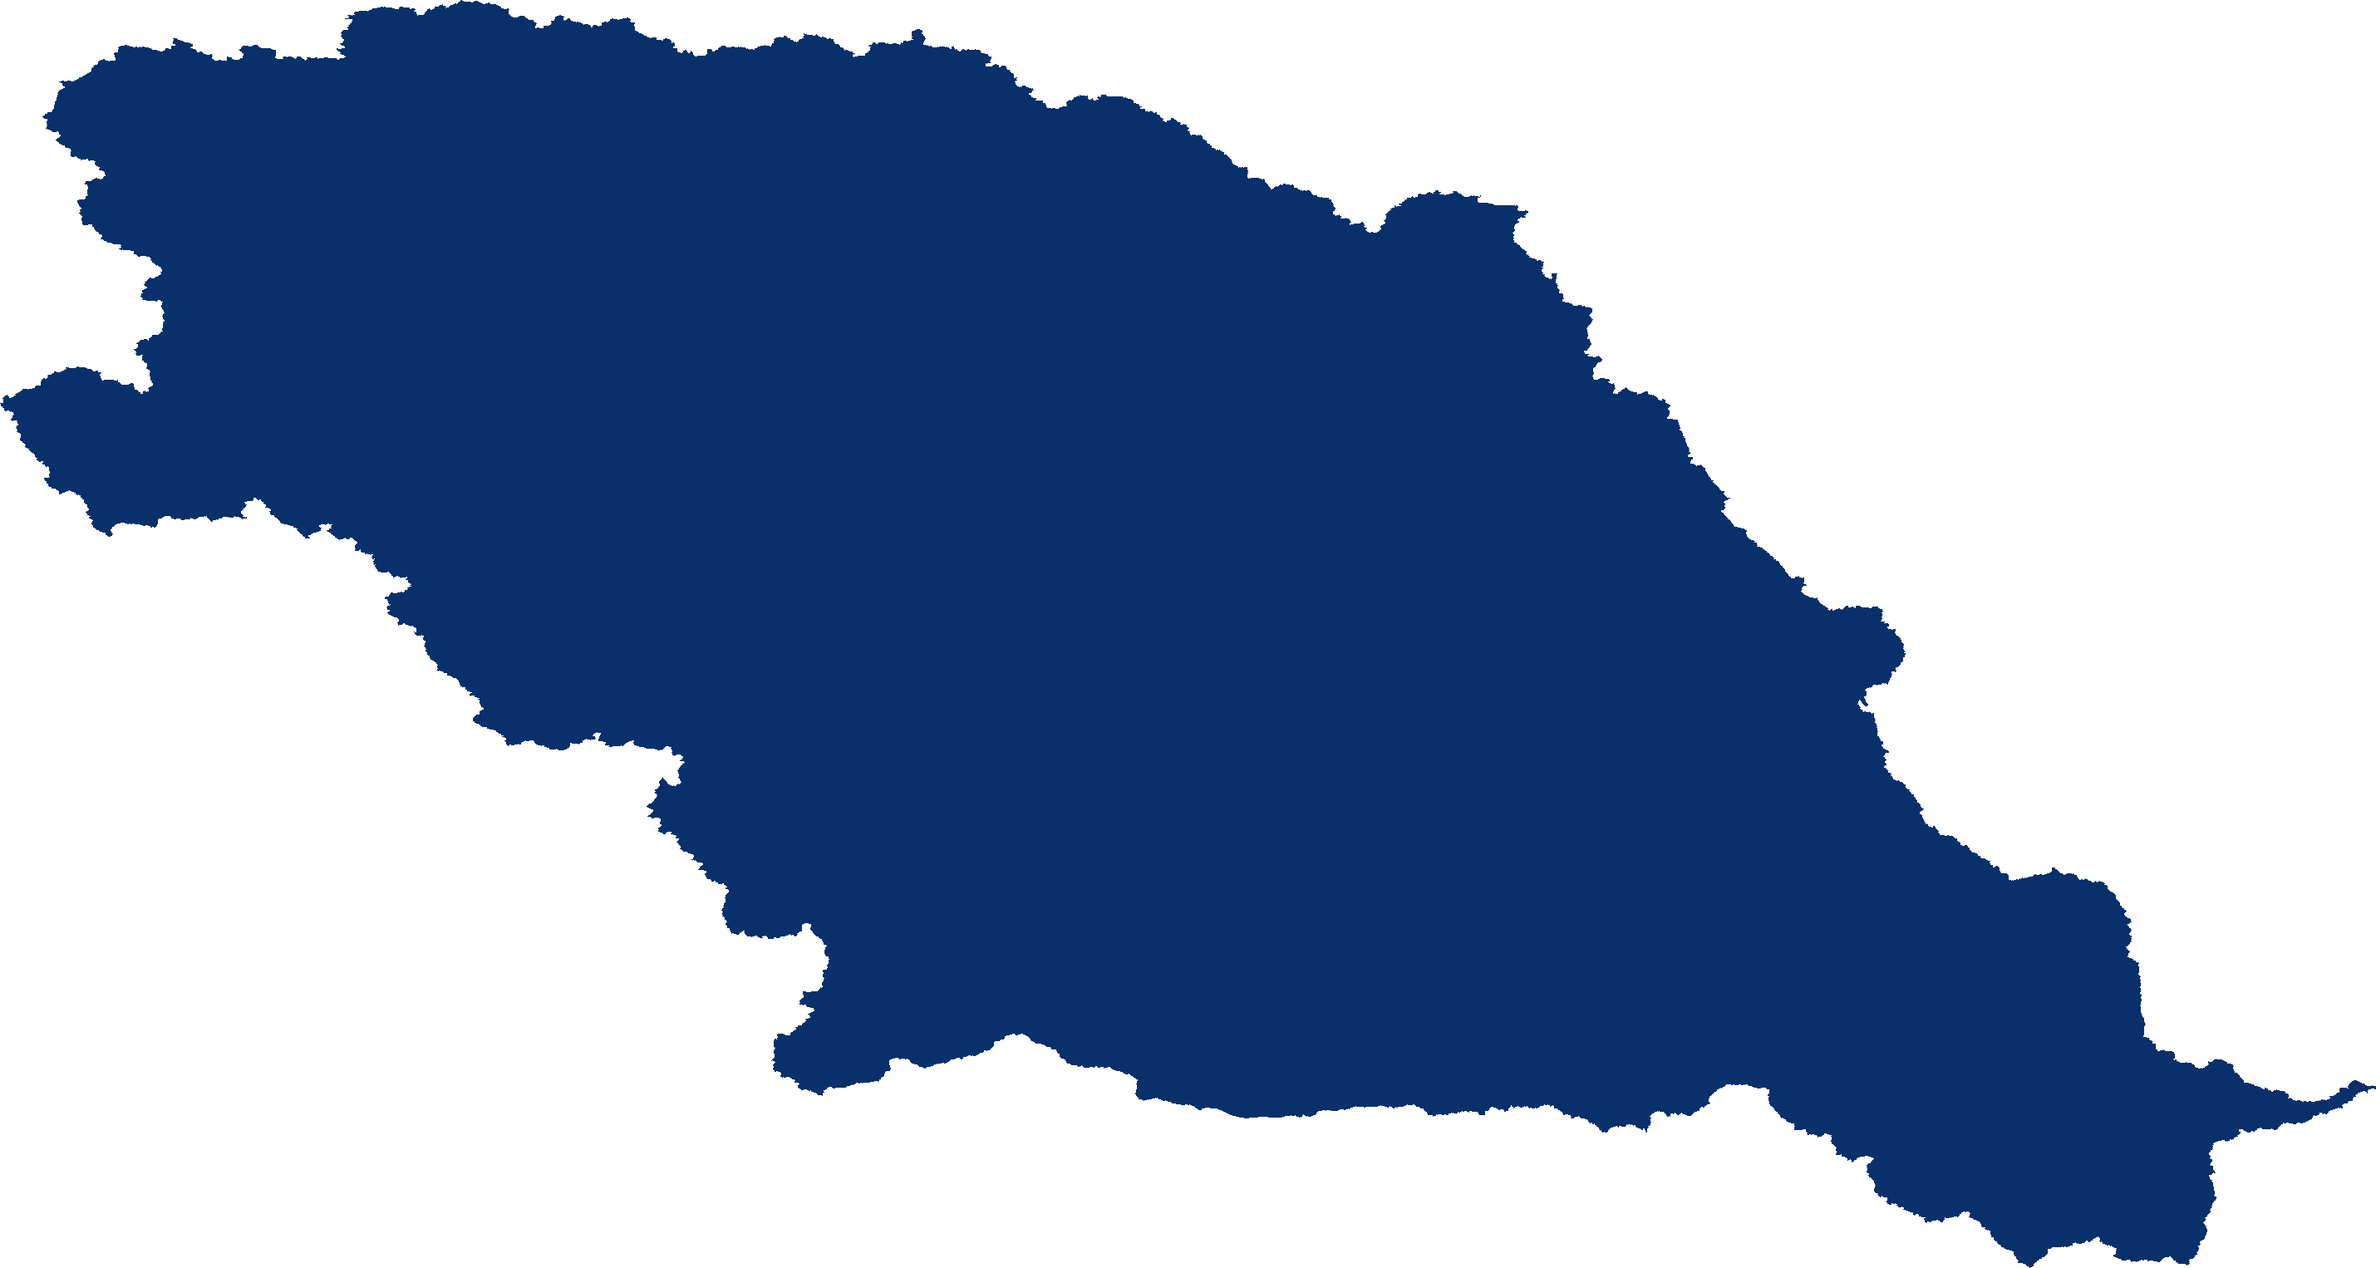
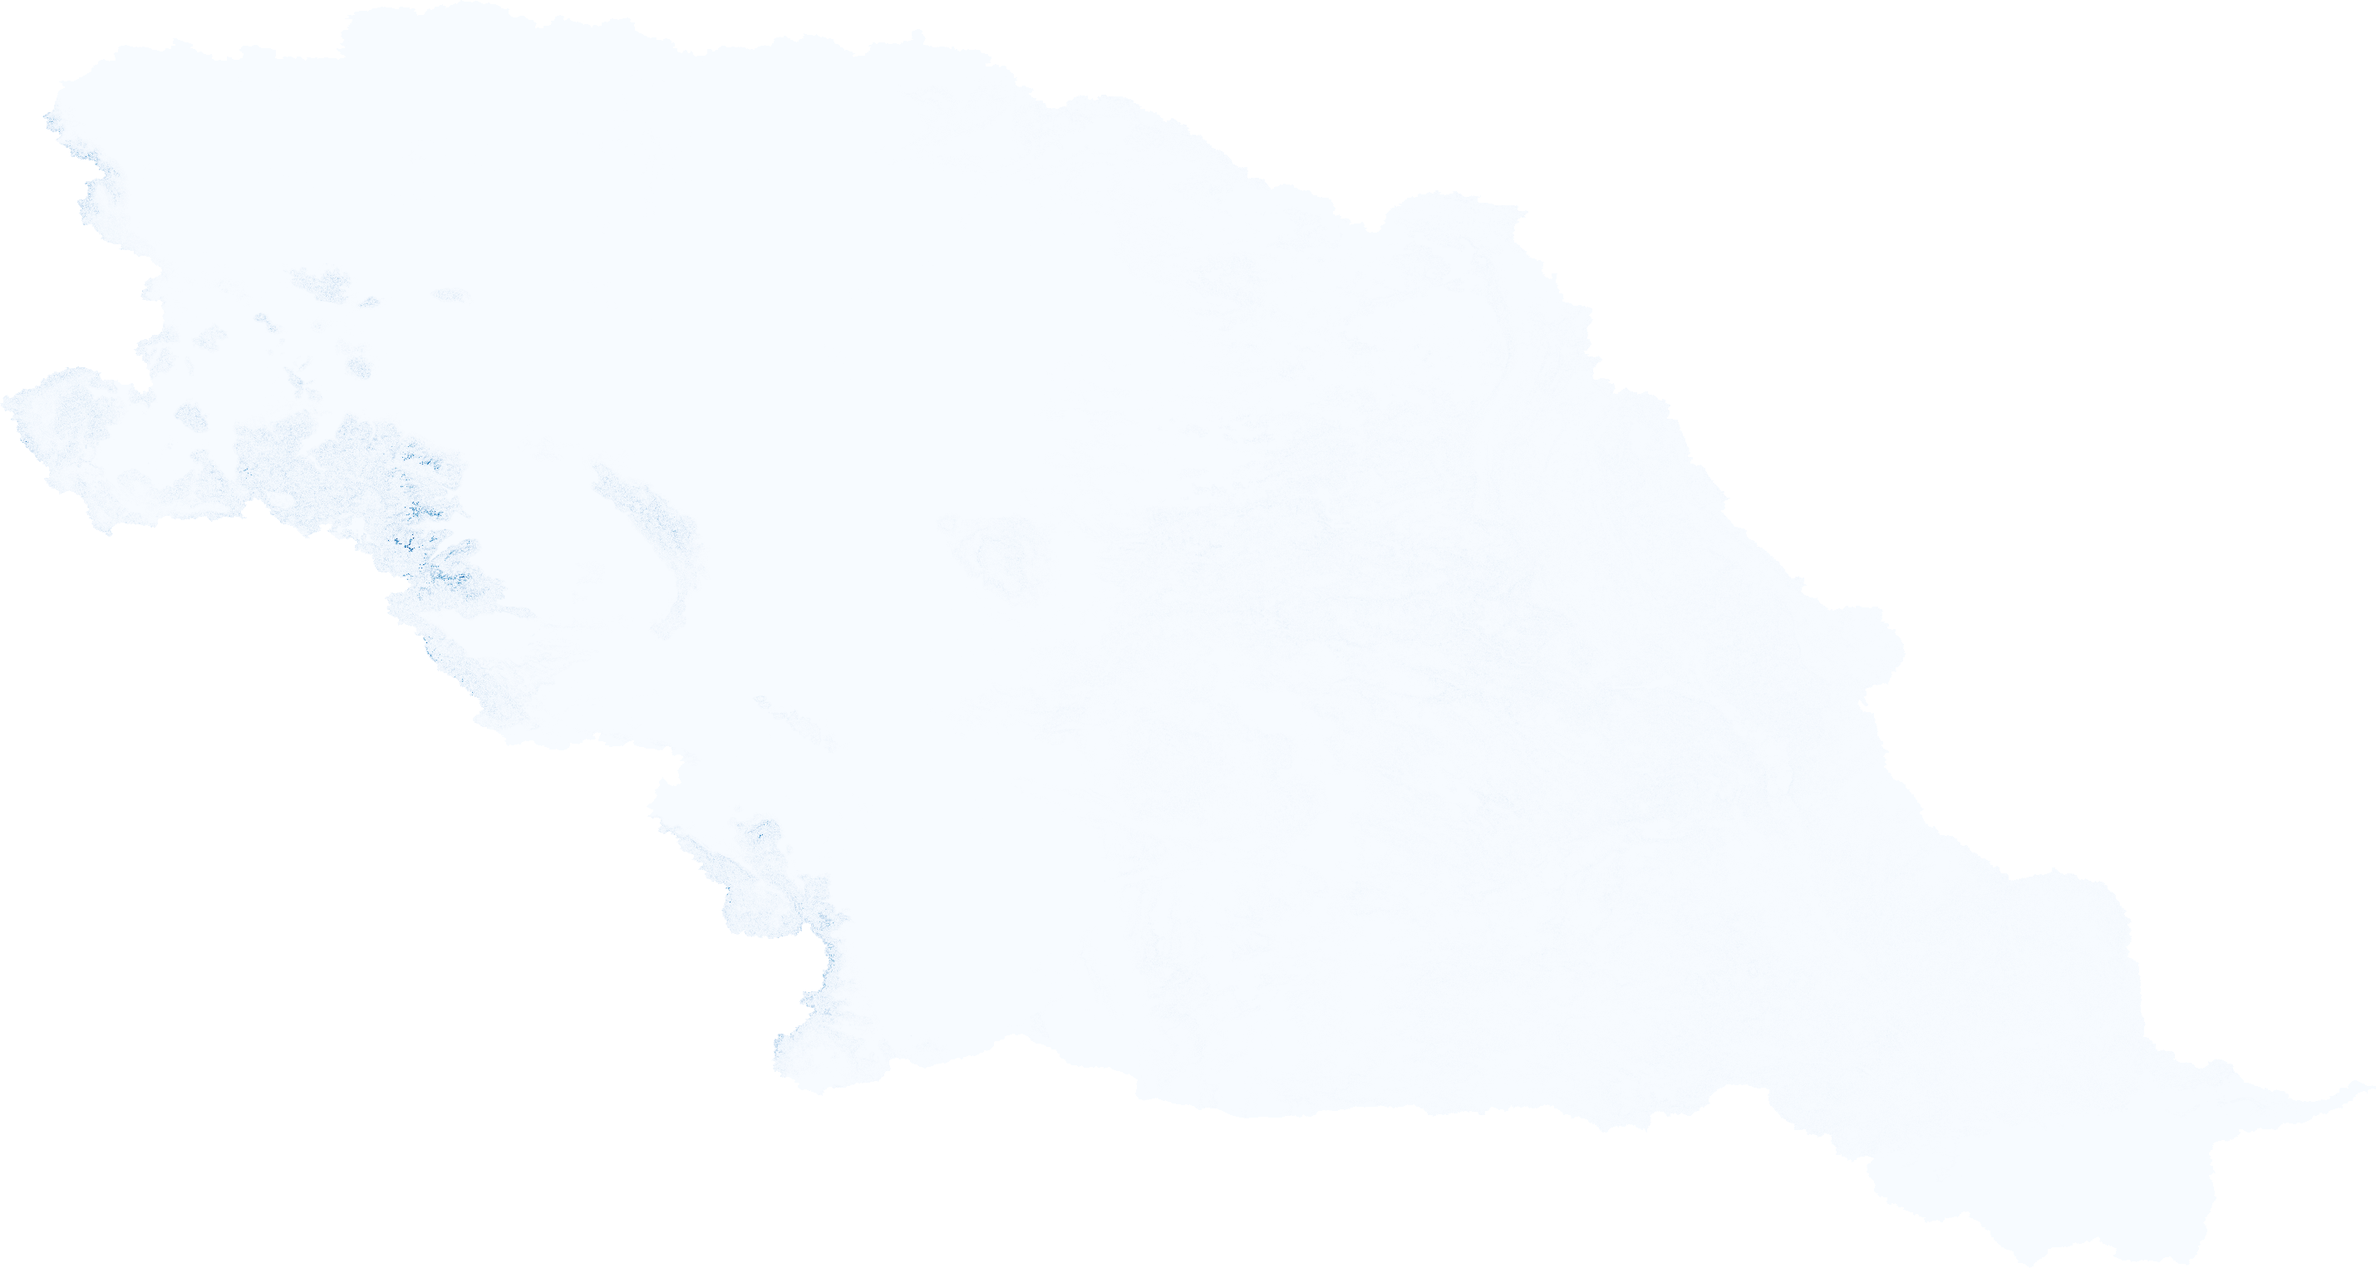
fixing snow layer cover

diff --git a/src/layer_resolution/main.py b/src/layer_resolution/main.py
@@ -93,6 +93,7 @@ class LayerPublisher(WallclockTimeIntervalPublisher):
 
     def download_snodas_data(self, start_date, end_date, raw_path):
         """Download SNODAS data for given date range"""
+        logger.info("Downloading SNODAS data.")
         dates = pd.date_range(start_date, end_date)
         snodas_dir = os.path.join(raw_path, "SNODAS")
         
@@ -107,7 +108,8 @@ class LayerPublisher(WallclockTimeIntervalPublisher):
                 continue
                 
             self.process_snodas_date(date, file_label, snodas_dir)
-        
+        logger.info("Downloading SNODAS data successfully completed.")
+
         return snodas_dir, dates
 
     def process_snodas_date(self, date, file_label, snodas_dir):
@@ -170,7 +172,7 @@ class LayerPublisher(WallclockTimeIntervalPublisher):
 
     def merge_snodas_files(self, snodas_dir, dates):
         """Merge individual SNODAS files into one NetCDF"""
-        print("Writing snodas-merged.nc")
+        logger.info("Merging NetCDF files.")
         ds = xr.combine_by_coords(
             [rxr.open_rasterio(
                 os.path.join(snodas_dir, 
@@ -180,15 +182,21 @@ class LayerPublisher(WallclockTimeIntervalPublisher):
             combine_attrs="drop_conflicts"
         )
         ds.to_netcdf(os.path.join(snodas_dir, "snodas-merged.nc"))
+        logger.info(f"Merging NetCDF files successfully completed.")
         return ds
 
     def get_missouri_basin(self, path_shp):
         """Get Missouri Basin geometry"""
+
+        logger.info("Downloading Missouri Basin geometry.")
         mo_basin = gpd.read_file(path_shp + "WBD_10_HU2_Shape/Shape/WBDHU2.shp")
+        logger.info("Downloading Missouri Basin geometry successfully completed.")
+
         return gpd.GeoSeries(Polygon(mo_basin.iloc[0].geometry.exterior), crs="EPSG:4326")
 
     def process_resolution(self, ds, mo_basin):
         """Process resolution analysis"""
+        logger.info("Processing resolution layer.")
         ds_clipped = ds.rio.clip(mo_basin.geometry, "EPSG:4326")
         
         # Print the dimensions of the dataset for debugging
@@ -211,11 +219,12 @@ class LayerPublisher(WallclockTimeIntervalPublisher):
         w = ds_clipped.rio.width * factor
         ds_5km = ds_clipped.rio.reproject(ds_clipped.rio.crs, shape=(int(h), int(w)), resampling=Resampling.bilinear)
         ds_1km = ds_5km.rio.reproject_match(ds_clipped, 1)
-        
+        logger.info("Processing resolution layer completed successfully.")
         return ds_clipped, abs(ds_1km - ds_clipped)
 
     def compute_monthly_resolution(self, ds_abs, mo_basin):
         """Compute monthly resolution statistics"""
+        logger.info("Computing monthly resolution.")
         resolution_mo = ds_abs.convert_calendar(calendar='standard')
         temp = resolution_mo.groupby(resolution_mo.time.dt.month).mean()
         
@@ -225,8 +234,97 @@ class LayerPublisher(WallclockTimeIntervalPublisher):
         temp_resampled = (temp.sel(month=resolution_mo.time.dt.month)
                         .rio.write_crs("EPSG:4326")
                         .rio.clip(mo_basin.geometry, "EPSG:4326"))
+        logger.info("Computing monthly resolution successfully completed.")
         return temp_resampled
+    
+    def open_polygons(self, geojson_path):
+        geojson = gpd.read_file(geojson_path)
+        polygons = geojson.geometry
+        print('Polygons loaded.')
+        return polygons
 
+    def downsample_array(self, array, downsample_factor):
+        """
+        Downsamples the given array by the specified factor.
+
+        Args:
+            array (np.ndarray): The array to downsample.
+            downsample_factor (int): The factor by which to downsample the array.
+
+        Returns:
+            np.ndarray: The downsampled array.
+        """
+        return array[::downsample_factor, ::downsample_factor]
+
+    def get_extents(self, dataset, variable):
+        # Extract the GeoTransform attribute
+        geo_transform = dataset['spatial_ref'].GeoTransform.split()
+        # Convert GeoTransform values to float
+        geo_transform = [float(value) for value in geo_transform]
+        # Calculate the extents (four corners)
+        min_x = geo_transform[0]
+        pixel_width = geo_transform[1]
+        max_y = geo_transform[3]
+        pixel_height = geo_transform[5]
+        # Get the actual dimensions of the raster layer
+        n_rows, n_cols = dataset[variable][0, :, :].shape
+        # Calculate the coordinates of the four corners
+        top_left = (min_x, max_y)
+        top_right = (min_x + n_cols * pixel_width, max_y)
+        bottom_left = (min_x, max_y + n_rows * pixel_height)
+        bottom_right = (min_x + n_cols * pixel_width, max_y + n_rows * pixel_height)
+        return top_left, top_right, bottom_left, bottom_right
+    
+    def encode(self, dataset, variable, output_path, time_step, scale, geojson_path, downsample_factor=1):
+
+        logger.info('Encoding snow layer.')
+        polygons = self.open_polygons(geojson_path=geojson_path)
+        
+        raster_layer = dataset[variable]
+
+        raster_layer = raster_layer.rio.write_crs("EPSG:4326")
+        clipped_layer = raster_layer.rio.clip(polygons, all_touched=True)
+        print(clipped_layer)
+        if scale == 'time':
+            raster_layer = clipped_layer.sel(time=time_step)
+        elif scale == 'week':
+            raster_layer = clipped_layer.isel(week=time_step).values
+        elif scale == 'month':
+            raster_layer = clipped_layer.isel(month=time_step).values
+        
+        raster_layer = self.downsample_array(raster_layer, downsample_factor=downsample_factor)
+
+        raster_layer_min = np.nanmin(raster_layer)
+        raster_layer_max = np.nanmax(raster_layer)
+
+        na_mask = np.isnan(raster_layer)
+
+        if raster_layer_max > raster_layer_min:
+            normalized_layer = (raster_layer - raster_layer_min) / (raster_layer_max - raster_layer_min)
+        else:
+            normalized_layer = np.zeros_like(raster_layer)
+
+        colormap = plt.get_cmap('Blues_r')
+        rgba_image = colormap(normalized_layer)
+
+        rgba_image[..., 3] = np.where(na_mask, 0, 1)
+
+        rgba_image = (rgba_image * 255).astype(np.uint8)
+
+        image = Image.fromarray(rgba_image, 'RGBA')
+        image.save(output_path)
+
+        top_left, top_right, bottom_left, bottom_right = self.get_extents(dataset, variable=variable)
+
+        buffered = io.BytesIO()
+        image.save(buffered, format="PNG")
+
+        raster_layer_encoded = base64.b64encode(buffered.getvalue()).decode('utf-8')
+
+        logger.info('Encoding snow layer successfully completed.')
+
+        return raster_layer_encoded, top_left, top_right, bottom_left, bottom_right
+    
     def publish_message(self):
 
         current_time = self.constellation.get_time()
@@ -276,9 +374,9 @@ class LayerPublisher(WallclockTimeIntervalPublisher):
         
         self.app.send_message(
             self.app.app_name,
-            "resolution_layer",
+            "layer",
             ResolutionLayer(
-                snow_layer=resolution_layer,
+                resolution_layer=resolution_layer,
                 top_left=top_left,
                 top_right=top_right,
                 bottom_left=bottom_left,
@@ -296,7 +394,7 @@ def main():
     VIRTUAL_HOST = credentials["VIRTUAL_HOST"]
     IS_TLS = credentials["IS_TLS"].lower() == 'true'
     PREFIX = "sos"
-    NAME = "layer"#"constellation"
+    NAME = "resolution"
 
     config = ConnectionConfig(
         USERNAME,
@@ -312,7 +410,7 @@ def main():
 
     app = ManagedApplication(NAME)
 
-    constellation = Constellation("layer") #"constellation")
+    constellation = Constellation("resolution")
     app.simulator.add_entity(constellation)
     app.simulator.add_observer(ShutDownObserver(app))
 

diff --git a/src/layer_snow_cover/main.py b/src/layer_snow_cover/main.py
@@ -59,10 +59,6 @@ class LayerPublisher(WallclockTimeIntervalPublisher):
 
         if self.time_status_init is None:
             self.time_status_init = self.constellation.ts.now().utc_datetime()
-            print(f'TIME STATUS INIT: {self.time_status_init}')
-        else:
-            self.time_status_init = self.time_status_init
-            print(f'TIME STATUS INIT: {self.time_status_init}')
     
     def efficiency(self, T, k, datarray):
         logger.info("Calculating efficiency.")
@@ -92,11 +88,46 @@ class LayerPublisher(WallclockTimeIntervalPublisher):
         logger.info("Downloading snow data successfully completed.")
         return earthaccess.download(results, path_hdf, threads=1)
 
+    # def process_snow_files(self, path_hdf: str, path_nc: str) -> Tuple[List[str], List[datetime]]:
+    #     """Process HDF files to NetCDF with dask parallelization"""
+    #     logger.info("Processing snow files.")
+    #     lon = np.linspace(-180, 180, 7200)
+    #     lat = np.flip(np.linspace(-90, 90, 3600))
+    #     files = []
+    #     time_sc = []
+
+    #     for filename in os.listdir(path_hdf):    
+    #         year = filename[9:13]
+    #         day = filename[13:16]
+    #         name = filename[0:34]
+
+    #         # converting day of year to time
+    #         dates = pd.to_datetime(int(day)-1, unit='D', origin=year)     
+    #         time_sc.append(dates)
+            
+    #         # Using context manager to ensure the file is closed
+    #         with xr.open_dataset(os.path.join(path_hdf, filename), engine='h5netcdf') as f_nc: #netcdf4
+    #             snow = f_nc['Day_CMG_Snow_Cover']
+    #             temp_arr = xr.DataArray(
+    #                 data=snow,
+    #                 dims=['lat', 'lon'],
+    #                 coords=dict(
+    #                     lon=lon,
+    #                     lat=lat,
+    #                 )
+    #             )
+    #             temp_arr.to_netcdf(os.path.join(path_nc, name + ".nc"))
+            
+    #         files = glob.glob(os.path.join(path_nc, "*.nc"))
+    #         logger.info("Processing snow files successfully completed.")
+                    
+    #     return files, time_sc
+
     def process_snow_files(self, path_hdf: str, path_nc: str) -> Tuple[List[str], List[datetime]]:
-        """Process HDF files to NetCDF with dask parallelization"""
         logger.info("Processing snow files.")
-        lon = np.linspace(-180, 180, 7200)
-        lat = np.flip(np.linspace(-90, 90, 3600))
+        ctr = 0
+        lon = np.linspace(-180,180,7200)
+        lat = np.flip(np.linspace(-90,90,3600))
         files = []
         time_sc = []
 
@@ -106,27 +137,25 @@ class LayerPublisher(WallclockTimeIntervalPublisher):
             name = filename[0:34]
 
             # converting day of year to time
-            dates = pd.to_datetime(int(day)-1, unit='D', origin=year)     
-            time_sc.append(dates)
-            
-            # Using context manager to ensure the file is closed
-            with xr.open_dataset(os.path.join(path_hdf, filename), engine='netcdf4') as f_nc:
-                snow = f_nc['Day_CMG_Snow_Cover']
-                temp_arr = xr.DataArray(
-                    data=snow,
-                    dims=['lat', 'lon'],
-                    coords=dict(
-                        lon=lon,
-                        lat=lat,
-                    )
-                )
-                temp_arr.to_netcdf(os.path.join(path_nc, name + ".nc"))
-            
-            files = glob.glob(os.path.join(path_nc, "*.nc"))
-            logger.info("Processing snow files successfully completed.")
-                    
-        return files, time_sc
 
+            dates = pd.to_datetime(int(day)-1,unit = 'D', origin=year)     
+            time_sc.append(dates)
+            f_nc = xr.open_dataset(os.path.join(path_hdf, filename),engine = 'netcdf4')  
+            snow = f_nc['Day_CMG_Snow_Cover']
+            temp_arr = xr.DataArray(
+            data=snow,
+            dims=['lat','lon'],
+            coords=dict(
+                lon = lon,
+                lat = lat,
+            )
+            )
+            temp_arr.to_netcdf(path_nc + name + ".nc")
+        files = glob.glob(os.path.join(path_nc,"*.nc"))
+        files = [f for f in files if not f.endswith("snowcover-merged.nc")]
+        
+        return files, time_sc
+    
     def merge_netcdf_files(self, files: List[str], time_sc: List[datetime], path_nc: str) -> xr.Dataset:
         """Merge NetCDF files with dask"""
         logger.info("Merging NetCDF files.")
@@ -178,9 +207,10 @@ class LayerPublisher(WallclockTimeIntervalPublisher):
         return temp_resampled
         
     def open_polygons(self, geojson_path):
+        logger.info('Loading polygons.')
         geojson = gpd.read_file(geojson_path)
         polygons = geojson.geometry
-        print('Polygons loaded.')
+        logger.info('Loading polygons successfully completed.')
         return polygons
 
     def downsample_array(self, array, downsample_factor):
@@ -224,7 +254,7 @@ class LayerPublisher(WallclockTimeIntervalPublisher):
 
         raster_layer = raster_layer.rio.write_crs("EPSG:4326")
         clipped_layer = raster_layer.rio.clip(polygons, all_touched=True)
-        print(clipped_layer)
+        
         if scale == 'time':
             raster_layer = clipped_layer.sel(time=time_step)
         elif scale == 'week':
@@ -295,10 +325,10 @@ class LayerPublisher(WallclockTimeIntervalPublisher):
         T = float(config_data['threshold'])
         k = -float(config_data['coefficient'])
         
-        logger.info(path_efficiency)
+        logger.info("Calculating effiency.")
         dataset = self.efficiency(T, k, temp_resampled)
         dataset.to_netcdf(os.path.join(path_efficiency, 'efficiency_snow_cover_up.nc'))
-        logger.info("Efficiency calculation successfully completed.")
+        logger.info("Calculating effiency successfully completed.")
 
         snow_layer, top_left, top_right, bottom_left, bottom_right = self.encode(
             dataset=dataset,
@@ -311,7 +341,7 @@ class LayerPublisher(WallclockTimeIntervalPublisher):
         
         self.app.send_message(
             self.app.app_name,
-            "snow_layer",
+            "layer",
             SnowLayer(
                 snow_layer=snow_layer,
                 top_left=top_left,
@@ -341,7 +371,7 @@ def main():
     VIRTUAL_HOST = credentials["VIRTUAL_HOST"]
     IS_TLS = credentials["IS_TLS"].lower() == 'true'
     PREFIX = "sos"
-    NAME = "layer"#"constellation"
+    NAME = "snow"
 
     config = ConnectionConfig(
         USERNAME,
@@ -357,7 +387,7 @@ def main():
 
     app = ManagedApplication(NAME)
 
-    constellation = Constellation("layer") #"constellation")
+    constellation = Constellation("snow")
     app.simulator.add_entity(constellation)
     app.simulator.add_observer(ShutDownObserver(app))
 

diff --git a/src/manager/main.py b/src/manager/main.py
@@ -59,5 +59,5 @@ if __name__ == "__main__":
         time_status_step=timedelta(seconds=1) * SCALE,         # optional duration between time status 'heartbeat' messages
         time_status_init=datetime(2024, 1, 7, tzinfo=timezone.utc),  # optional initial scenario datetime to start publishing time status 'heartbeat' messages
         command_lead=timedelta(seconds=5),                     # lead time before a scheduled update or stop command
-        required_apps=['layer'] #'constellation', 
+        required_apps=['snow'], # , 'resolution', 'constellation' list of required applications 
     )

diff --git a/src/layer_resolution/constellation_config_files/config.py b/src/layer_resolution/constellation_config_files/config.py
@@ -27,4 +27,4 @@ FIELD_OF_REGARD = [float(os.getenv("FIELD_OF_REGARD", 110)),
 # )  # degrees (comms more forgiving than sensor, not currently used)
 # MIN_INTENSITY = float(os.getenv("MIN_INTENSITY", 10.0))  # square meters
 
-SCALE = 20160 #120 #60
+SCALE = 1 #20160 #120 #60

diff --git a/src/satellites/constellation_config_files/config.py b/src/satellites/constellation_config_files/config.py
@@ -27,4 +27,4 @@ FIELD_OF_REGARD = [float(os.getenv("FIELD_OF_REGARD", 110)),
 # )  # degrees (comms more forgiving than sensor, not currently used)
 # MIN_INTENSITY = float(os.getenv("MIN_INTENSITY", 10.0))  # square meters
 
-SCALE = 20160 #120 #60
+SCALE = 1 #20160 #120 #60
